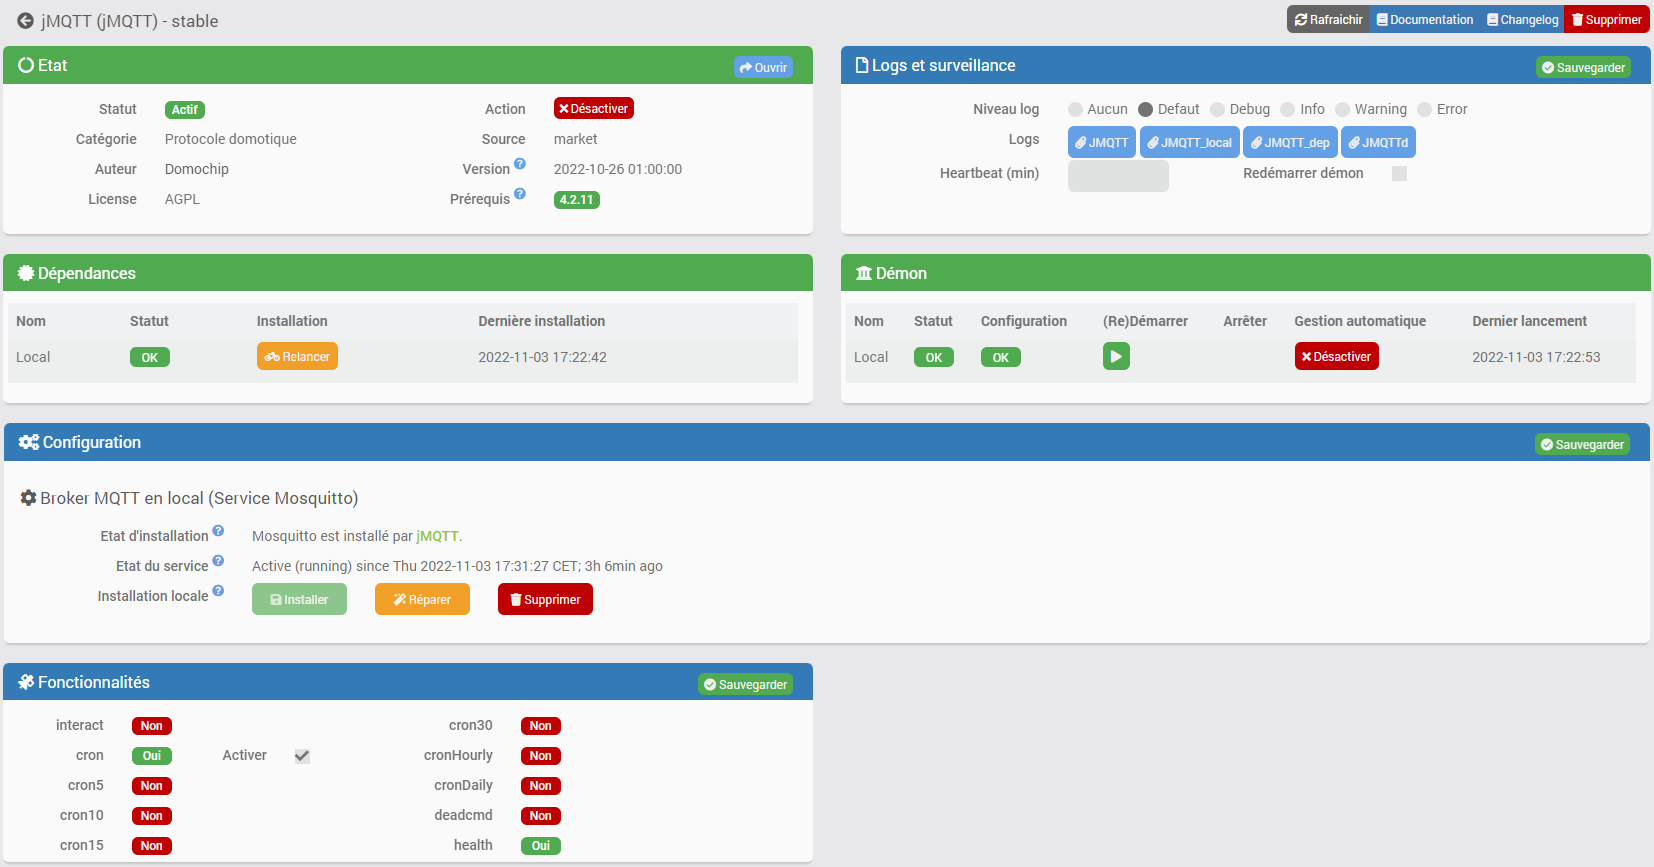
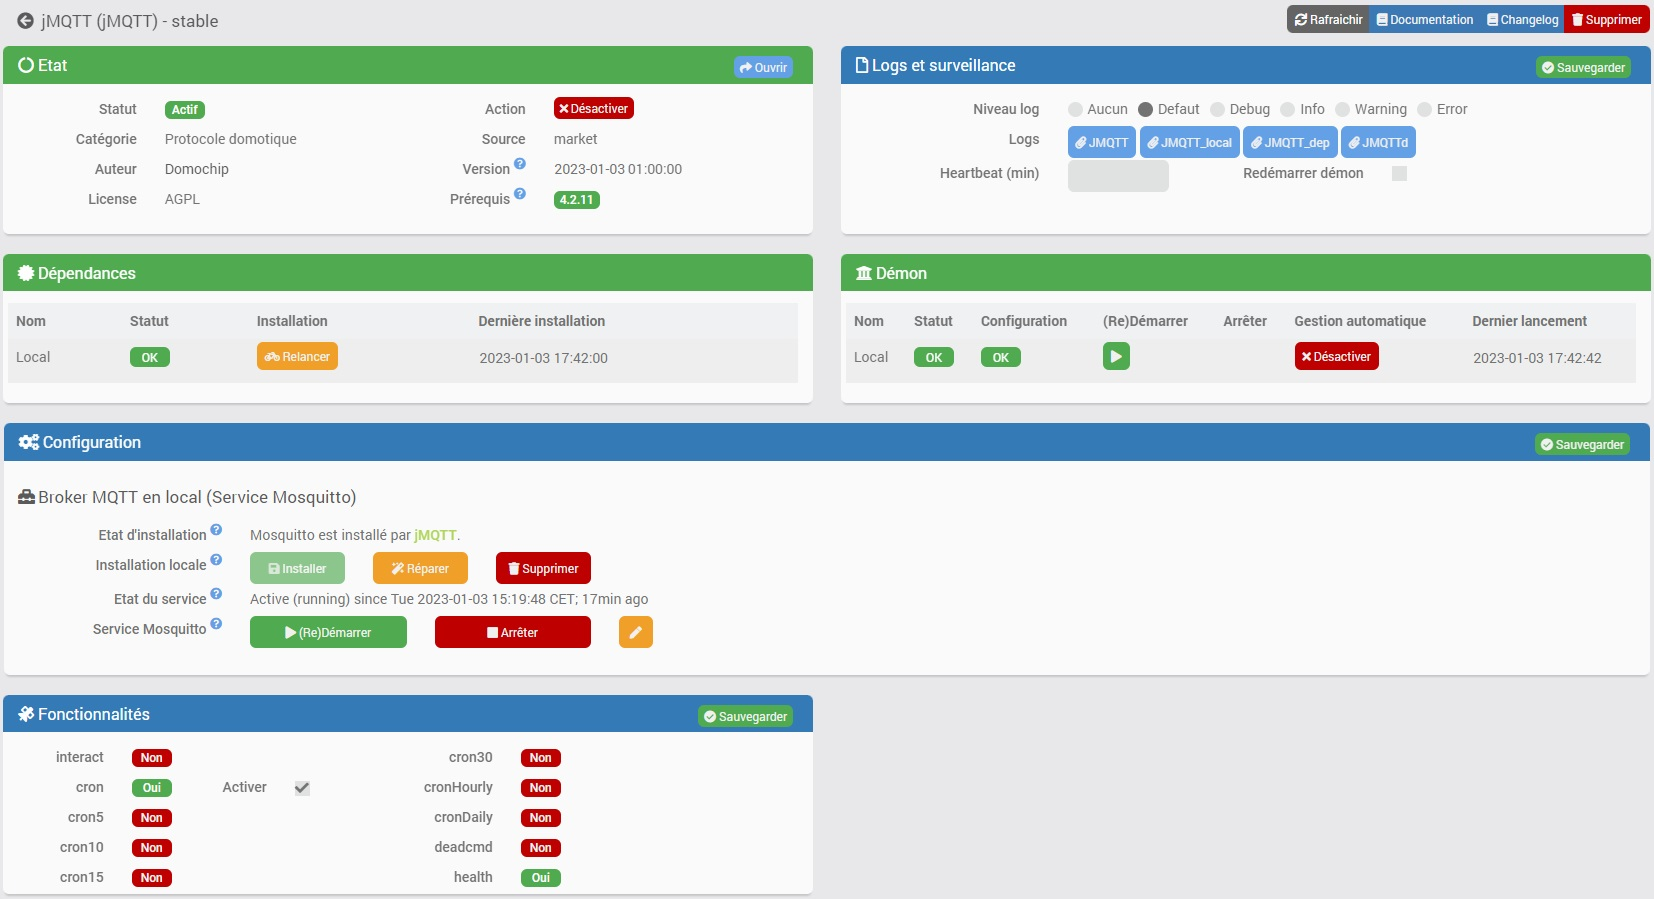
Doc & Changelog beta

Changed region(s): [[0.0, 0.0, 1.0, 0.9965], [0.0925, 0.0, 0.1233, 0.0311]]

diff --git a/docs/fr_FR/index_beta.md b/docs/fr_FR/index_beta.md
@@ -63,9 +63,9 @@ Pour en savoir plus, ça se passe en anglais par ici : [MQTT Essentials](https:/
 
 # Configuration du plugin
 
-Après installation du plugin, il suffit de l’activer sur la page de configuration :
+Après installation, il suffit d'activer le plugin sur la page de configuration :
 
-![Configuration du plugin](../images/2022-11-03_config.png)
+![Configuration du plugin](../images/2023-01-03_config.png)
 
 Quelques instants sont nécessaires à l'installation des dépendances. Le suivi de la progression est possible via le log `jMQTT_dep`.
 

diff --git a/docs/fr_FR/changelog_beta.md b/docs/fr_FR/changelog_beta.md
@@ -1,5 +1,9 @@
 # Registre des évolutions BETA
 
+## 2023-01-07
+- Ajout de boutons pour (re)démarrer ou arrêter le service Mosquitto local
+- Ajout d'un bouton pour éditer le fichier de configuration jMQTT.conf du service Mosquitto
+
 ## 2023-01-03
 - Correction d'un bug lors de la duplication d'un équipement : des commandes de l'équipement source étaient encore utilisées
 - Correction d'un bug lors de la création ou de l'import d'un template : des id des commandes d'origine étaient encore conservées
